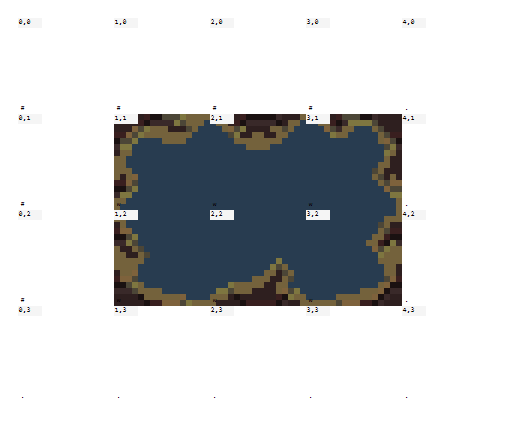
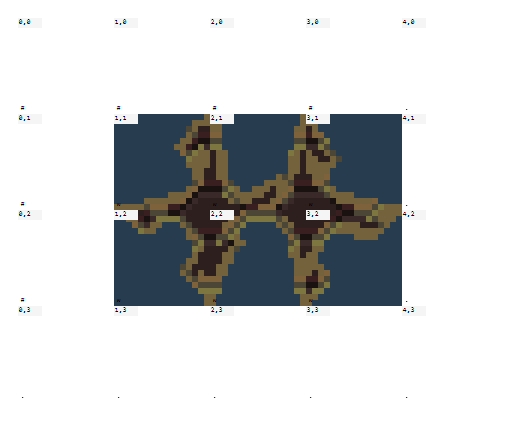
血色雾气改用红色毒气粒子（Speck.BLOOD）；水边缘回滚到与图集一致的原始逻辑；新增地形图集帧号渲染工具

Changed region(s): [[0.2171, 0.2396, 0.8062, 0.7189]]

diff --git a/core/src/java/pd/tiles/SpsWaterEdgesTilemap.java b/core/src/java/pd/tiles/SpsWaterEdgesTilemap.java
@@ -53,11 +53,10 @@ public class SpsWaterEdgesTilemap extends DungeonTilemap {
 		if (unstitchable(pos + PathFinder.CIRCLE4[1])) t += 2;
 		if (unstitchable(pos + PathFinder.CIRCLE4[2])) t += 4;
 		if (unstitchable(pos + PathFinder.CIRCLE4[3])) t += 8;
-		//SPS: sps_water_edges_* 图集的帧序与位权【相反】——实测（tools/probe-water-edge-frames.ps1）：
-		//  f0 = 上右下左(全)   f1 = 右+下+左   f2 = 上+下+左   f8 = 上+右+下
-		//  f14 = 上            f15 = 无边缘(全透明)
-		//而位权 t 里"置位"表示该方向有边缘，故帧号 = 15 - t。
-		return 15 - t;
+		//SPS: 帧号直接等于位权 t。图集逐帧与原版 tiles0 第 4 行（帧 48-63）完全一致
+		//（见 tools/probe-water-edge-frames.ps1 实测）：f0 = 水铺满四边(四邻可缝合)，
+		//f15 = 全透明(四邻皆不可缝合)。位权里"置位"= 该方向相邻非水 -> 需要水边。
+		return t;
 	}
 
 	@Override
@@ -73,9 +72,9 @@ public class SpsWaterEdgesTilemap extends DungeonTilemap {
 	private boolean unstitchable(int pos) {
 		if (pos < 0 || pos >= map.length) return true;
 		int t = map[pos];
-		//SPS: 水与水之间不画边缘 —— 相邻水格可缝合。原版把 WATER 也标了 UNSTITCHABLE
-		//是因为它共用 48-63 段水位图集；本图集是独立的边缘层，水中心要留空。
-		if (t == Terrain.WATER) return false;
+		//SPS: 水也是不可缝合的 —— 与原版 Terrain.flags[WATER] |= UNSTITCHABLE 一致。
+		//水邻水时该方向置位，取到的帧是"水铺满该边"，正好无缝衔接。
+		if (t == Terrain.WATER) return true;
 		if ((Terrain.flags[t] & Terrain.SOLID) != 0) return true;
 		switch (t) {
 			case Terrain.CHASM:

diff --git a/core/src/java/pd/actors/blobs/effectblobs/ShadowGas.java b/core/src/java/pd/actors/blobs/effectblobs/ShadowGas.java
@@ -4,7 +4,7 @@ import pd.actors.Char;
 import pd.actors.buffs.Buff;
 import pd.actors.buffs.ShadowCurse;
 import pd.effects.BlobEmitter;
-import pd.effects.particles.BloodParticle;
+import pd.effects.Speck;
 import pd.items.Heap;
 import pd.messages.Messages;
 import pd.messages.InlineText;
@@ -22,7 +22,7 @@ public class ShadowGas extends SpsEffectBlob {
 		if (target.buff(ShadowCurse.class) == null) Buff.affect(target, ShadowCurse.class);
 	}
 	@Override protected void affect(Heap heap) { heap.darkhit(); }
-	//SPSXPD: 暗影场是血色雾气，此前误用了黑色粒子
-	@Override public void use(BlobEmitter emitter) { super.use(emitter); emitter.start(BloodParticle.FACTORY, 0.1f, 0); }
+	//SPSXPD: 暗影场呈现血色雾气 —— 毒气形态的红色粒子（Speck.BLOOD）
+	@Override public void use(BlobEmitter emitter) { super.use(emitter); emitter.pour(Speck.factory(Speck.BLOOD), 0.4f); }
 	@Override public String tileDesc() { return Messages.get(this, "desc"); }
 }

diff --git a/core/src/java/pd/effects/Speck.java b/core/src/java/pd/effects/Speck.java
@@ -73,6 +73,7 @@ public class Speck extends Image {
 	public static final int YELLOW_LIGHT= 120;
 	public static final int BLUE_LIGHT  = 121;
 	public static final int TARGAS      = 122;
+	public static final int BLOOD       = 123;   //SPS: 血色雾气（暗影场用）
 	
 	private static final int SIZE = 7;
 	
@@ -400,6 +401,14 @@ public class Speck extends Image {
 			angularSpeed = 30;
 			angle = Random.Float( 360 );
 			lifespan = Random.Float( 1f, 1.5f );
+			break;
+
+		//SPS: 血色雾气 —— 形态同毒气（TOXIC），颜色改血红
+		case BLOOD:
+			hardlight( 0xCC0000 );
+			angularSpeed = 30;
+			angle = Random.Float( 360 );
+			lifespan = Random.Float( 1f, 3f );
 			break;
 
 		case DUST:
